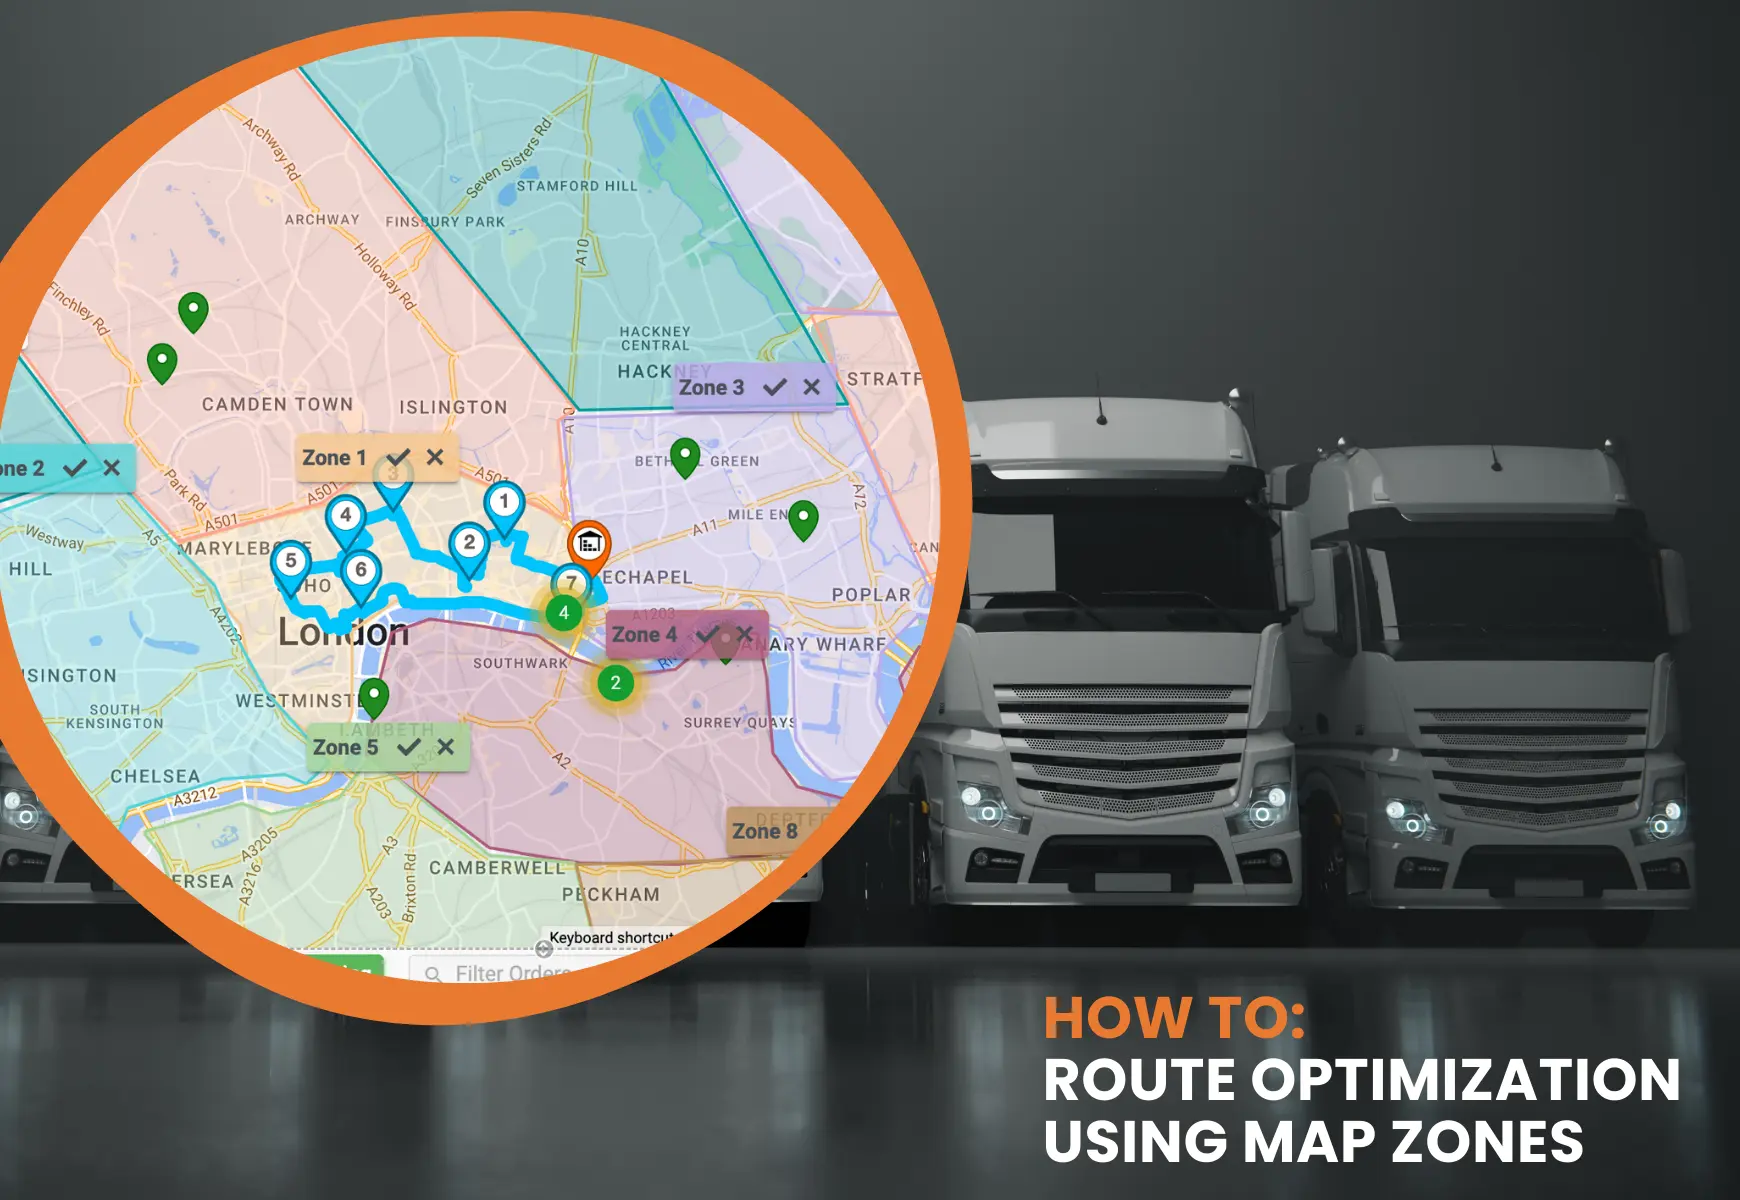
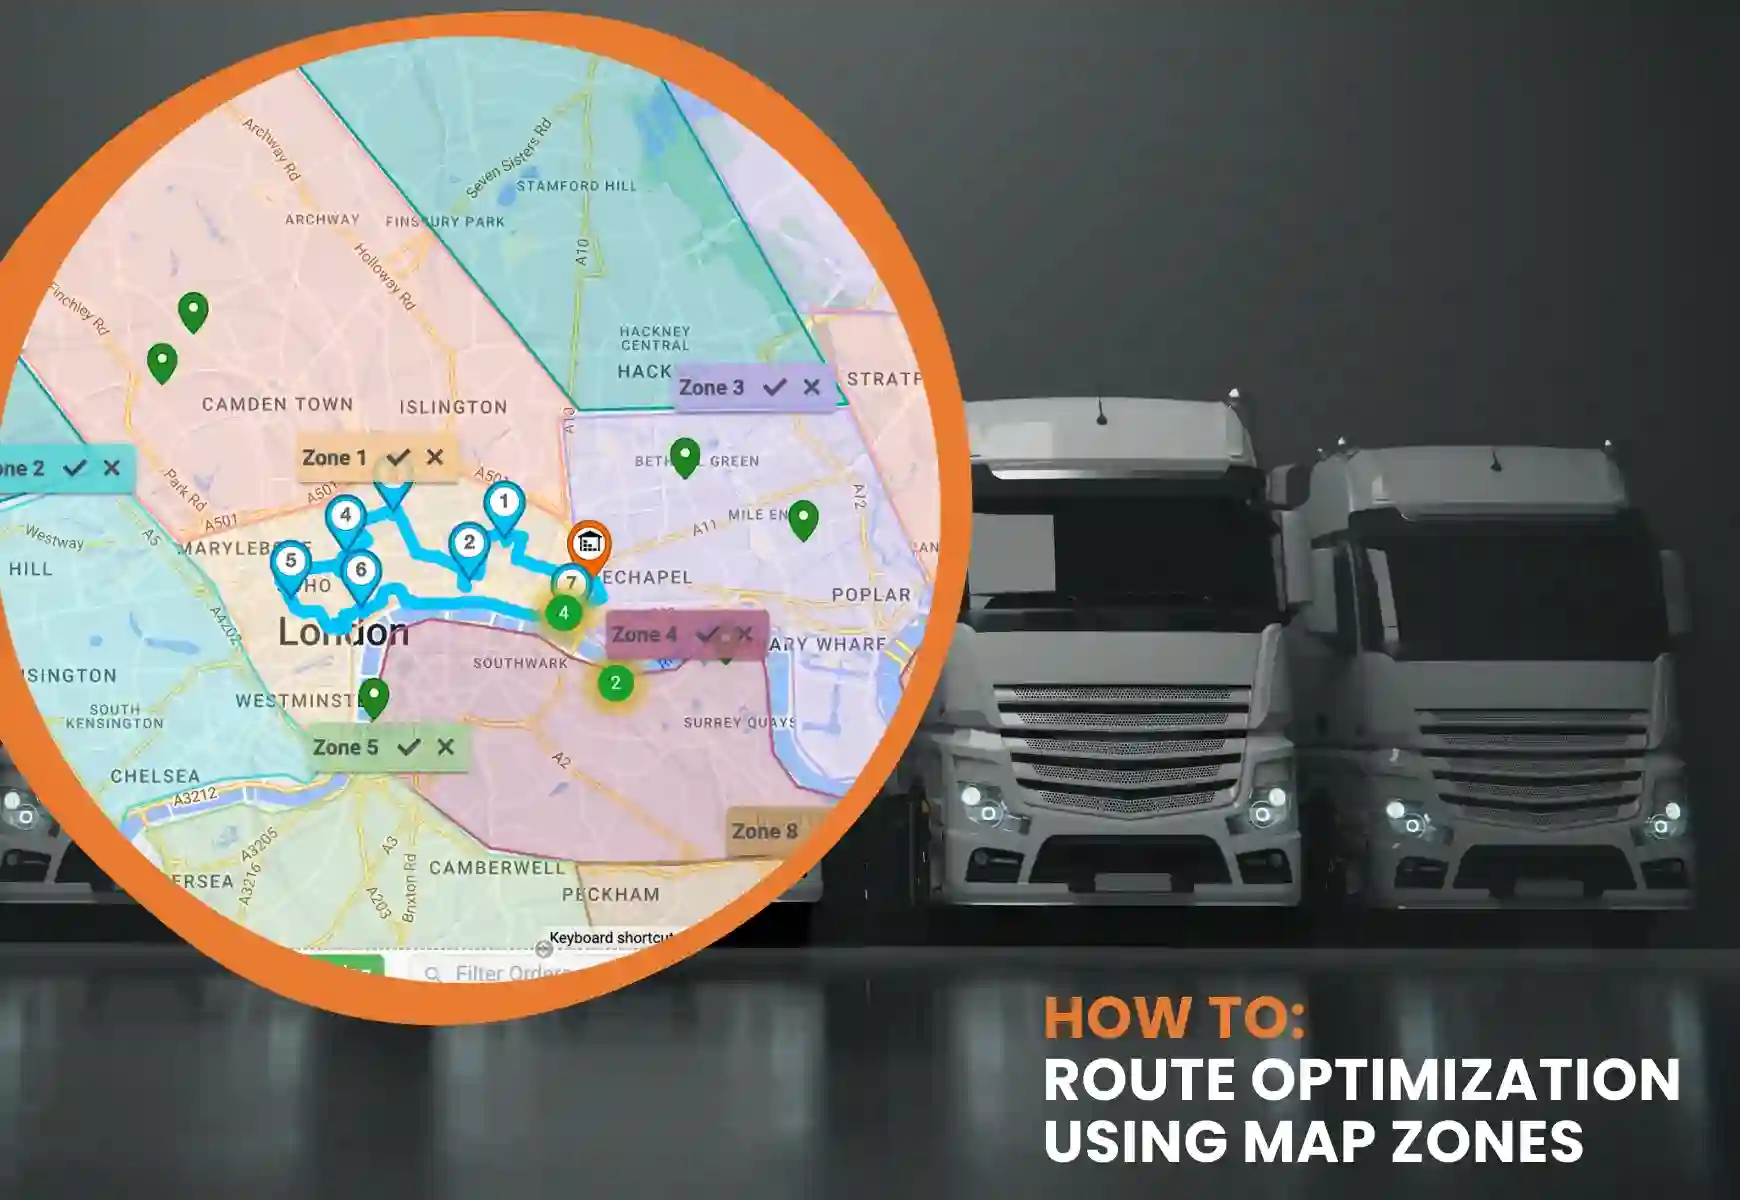
image fix

diff --git a/src/data/portfolio.ts b/src/data/portfolio.ts
@@ -276,7 +276,7 @@ export const projects = [
     category: 'AI Tools',
     featured: true,
     gradient: 'from-emerald-600 to-teal-500',
-    image: 'tylegal.png',
+    image: 'tylegal_compressed.webp',
     link: 'https://legal.techyenthra.com/',
     linkLabel: 'Live Demo',
     github: null,
@@ -291,10 +291,10 @@ export const projects = [
     category: 'AI Tools',
     featured: true,
     gradient: 'from-violet-600 to-cyan-500',
-    image: 'codeSenseBanner.png',
+    image: 'codeSenseBanner_compressed.webp',
     link: 'https://dev.codesense.online',
     linkLabel: 'Live Demo',
-    archDiagram: 'codeSenseArch.png',
+    archDiagram: 'codeSenseArch_compressed.webp',
     github: null,
     caseStudy: null,
   },
@@ -307,7 +307,7 @@ export const projects = [
     category: 'Enterprise',
     featured: true,
     gradient: 'from-cyan-600 to-blue-600',
-    image: 'enterprice.jpg',
+    image: 'enterprice_compressed.webp',
     link: null,
     linkLabel: 'Private Project',
     github: null,
@@ -322,7 +322,7 @@ export const projects = [
     category: 'Media',
     featured: true,
     gradient: 'from-purple-600 to-pink-500',
-    image: 'ott-steming.jpeg',
+    image: 'ott-steming_compressed.webp',
     link: null,
     linkLabel: 'No Longer Available',
     github: null,
@@ -337,7 +337,7 @@ export const projects = [
     category: 'Enterprise',
     featured: true,
     gradient: 'from-blue-500 to-indigo-600',
-    image: 'OTA.jpeg',
+    image: 'OTA_compressed.webp',
     link: 'https://www.flyingcarpet.travel/',
     linkLabel: 'Live Demo',
     github: null,
@@ -367,7 +367,7 @@ export const projects = [
     category: 'eCommerce',
     featured: false,
     gradient: 'from-orange-500 to-yellow-400',
-    image: 'e-commerse.jpg',
+    image: 'e-commerse.webp',
     link: 'https://www.samsung.com/us/',
     linkLabel: 'Live Demo',
     github: null,
